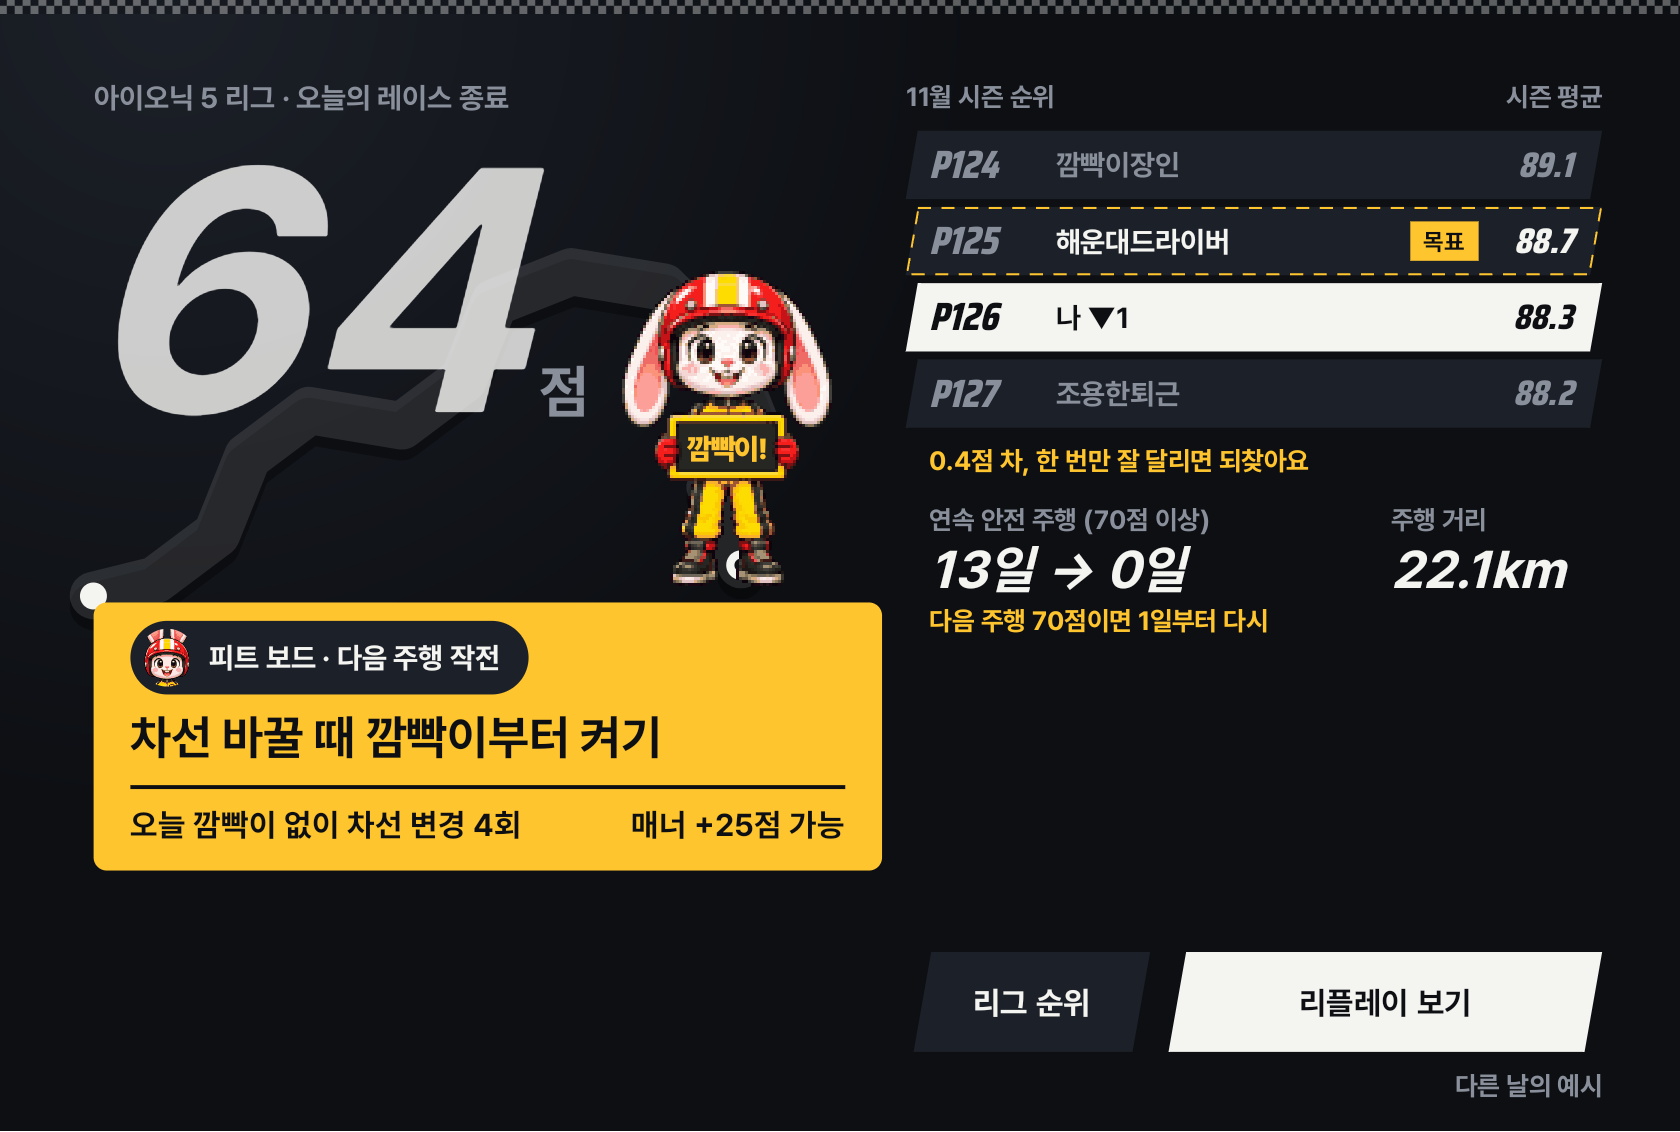
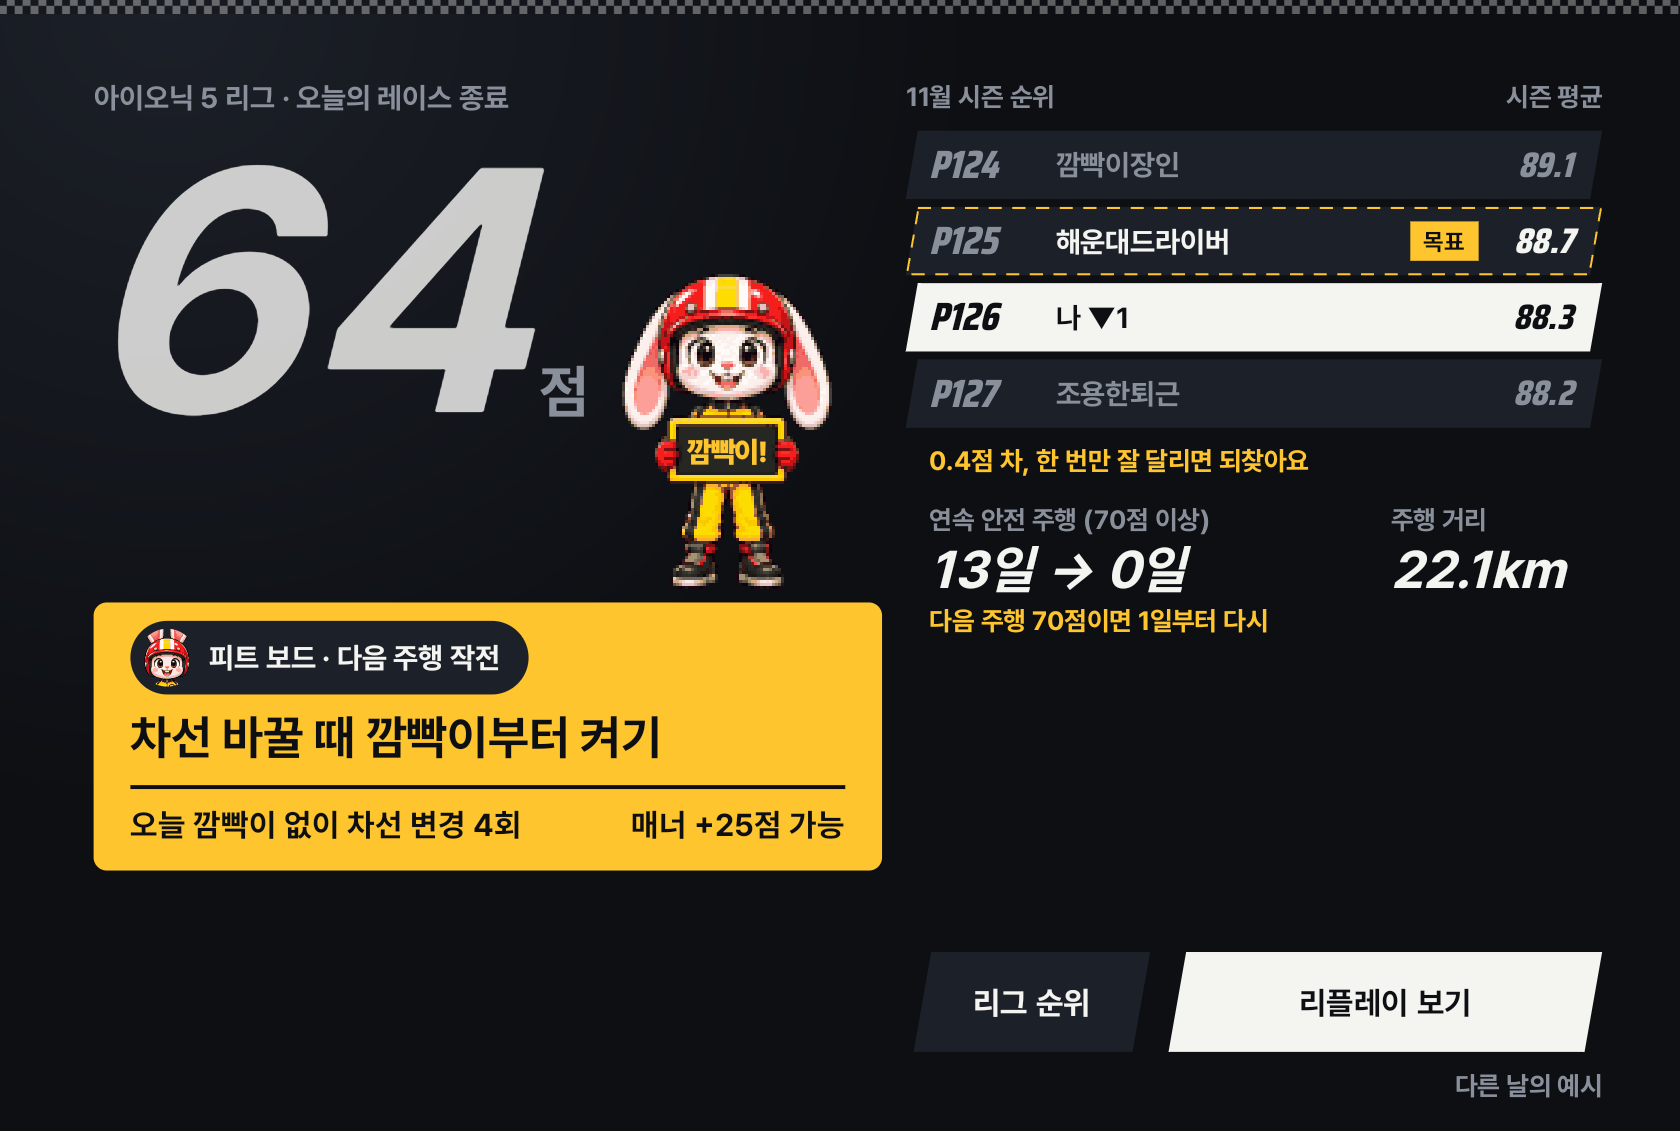
feat: remove blurred route background from low result card

diff --git a/app/src/main/java/io/github/ddayoung03/safetyleague/ui/view/CircuitRouteView.kt b/app/src/main/java/io/github/ddayoung03/safetyleague/ui/view/CircuitRouteView.kt
@@ -6,7 +6,6 @@ import androidx.core.graphics.withTranslation
 import android.content.Context
 import io.github.ddayoung03.safetyleague.R
 import android.graphics.Canvas
-import android.graphics.Color
 import android.graphics.DashPathEffect
 import android.graphics.Paint
 import android.graphics.Path
@@ -52,13 +51,7 @@ class CircuitRouteView @JvmOverloads constructor(
             rebuild()
         }
 
-    var isBackgroundMode: Boolean = false // 결과 카드 배경용 흐린 모드
-        set(value) {
-            field = value
-            trim()
-        }
-
-    /** 그려진 길이의 비율(0~1). 리플레이에만 쓰고, 배경 모드는 늘 끝까지 그린다. */
+    /** 그려진 길이의 비율(0~1).  */
     var progress: Float = 1f
         set(value) {
             field = value.coerceIn(0f, 1f)
@@ -83,7 +76,6 @@ class CircuitRouteView @JvmOverloads constructor(
     private val shadowColor = context.getColor(R.color.shadow)
     private val edgeColor = ColorUtils.setAlphaComponent(context.getColor(R.color.ink_text), 40)
     private val asphaltColor = context.getColor(R.color.ink_glow)
-    private val fadedColor = Color.argb(30, 242, 241, 236) // 흐린 서킷
     private val inkColor = context.getColor(R.color.ink)
     private val textColor = context.getColor(R.color.ink_text)
     private val yellowColor = context.getColor(R.color.yellow)
@@ -174,7 +166,7 @@ class CircuitRouteView @JvmOverloads constructor(
     /** 그릴 부분을 잘라 둔다. 그 끝이 차의 자리다. */
     private fun trim() {
         visibleCount = visibleEvents(eventPositions, progress)
-        val end = measure.length * (if (isBackgroundMode) 1f else progress)
+        val end = measure.length * progress
         drawn.reset()
         measure.getSegment(0f, end, drawn, true)
         measure.getPosTan(end, carPos, null)
@@ -187,43 +179,35 @@ class CircuitRouteView @JvmOverloads constructor(
         val density = resources.displayMetrics.density
 
         // Shadow below the road, never above event labels.
-        roadPaint.strokeWidth = if (isBackgroundMode) 36f * (scale / 6f).coerceAtLeast(1f) else 44f
+        roadPaint.strokeWidth = 44f
         roadPaint.color = shadowColor
         canvas.withTranslation(0f, 8 * density) {
             drawPath(drawn, roadPaint)
         }
         // 1. 도로 아스팔트 베이스
-        if (isBackgroundMode) {
-            roadPaint.strokeWidth = 36f * (scale / 6f).coerceAtLeast(1f)
-            roadPaint.color = fadedColor
-            canvas.drawPath(drawn, roadPaint)
-        } else {
-            roadPaint.strokeWidth = 44f
-            roadPaint.color = edgeColor
-            canvas.drawPath(drawn, roadPaint)
+        roadPaint.strokeWidth = 44f
+        roadPaint.color = edgeColor
+        canvas.drawPath(drawn, roadPaint)
 
-            roadPaint.strokeWidth = 36f
-            roadPaint.color = asphaltColor
-            canvas.drawPath(drawn, roadPaint)
+        roadPaint.strokeWidth = 36f
+        roadPaint.color = asphaltColor
+        canvas.drawPath(drawn, roadPaint)
 
-            // 중앙선
-            canvas.drawPath(drawn, centerLinePaint)
-        }
+        // 중앙선
+        canvas.drawPath(drawn, centerLinePaint)
 
         // 2. 출발점 (그린 서클) & 도착점 (체커기 마커). 도착점은 차가 닿으면 나온다.
         eventPaint.color = textColor // 출발: 트랙 화이트
         canvas.drawCircle(ends[0], ends[1], 9f, eventPaint)
         canvas.drawCircle(ends[0], ends[1], 9f, eventBorderPaint)
 
-        val arrived = isBackgroundMode || progress >= 1f
-        if (arrived) {
+        if (progress >= 1f) {
             eventPaint.color = textColor
             canvas.drawCircle(ends[2], ends[3], 10f, eventPaint)
             eventPaint.color = inkColor
             canvas.drawCircle(ends[2], ends[3], 5f, eventPaint)
             canvas.drawCircle(ends[2], ends[3], 10f, eventBorderPaint)
         }
-        if (isBackgroundMode) return
 
         // 3. 리플레이 이벤트 마커 렌더링
         for (i in 0 until visibleCount) {
@@ -236,7 +220,7 @@ class CircuitRouteView @JvmOverloads constructor(
         }
 
         // 4. 달리는 차
-        if (progress > 0f && !arrived) {
+        if (progress > 0f && progress < 1f) {
             eventPaint.color = yellowColor
             canvas.drawCircle(carPos[0], carPos[1], 10 * density, eventPaint)
             canvas.drawCircle(carPos[0], carPos[1], 10 * density, eventBorderPaint)

diff --git a/app/src/main/java/io/github/ddayoung03/safetyleague/ui/ResultLowScreen.kt b/app/src/main/java/io/github/ddayoung03/safetyleague/ui/ResultLowScreen.kt
@@ -3,7 +3,6 @@ package io.github.ddayoung03.safetyleague.ui
 import android.view.View
 import io.github.ddayoung03.safetyleague.R
 import io.github.ddayoung03.safetyleague.core.calculator.LeagueCalculator
-import io.github.ddayoung03.safetyleague.core.calculator.RouteNormalizer
 import io.github.ddayoung03.safetyleague.core.data.DemoData
 import io.github.ddayoung03.safetyleague.databinding.ViewResultLowBinding
 import io.github.ddayoung03.safetyleague.ui.motion.animationsEnabled
@@ -21,7 +20,6 @@ internal fun MainActivity.showResultLow() {
     listOf(b.btnLeague, b.btnReplay).forEach { it.pressFeedback() }
     b.btnLeague.setOnClickListener { show(Screen.LEAGUE, it) }
     b.btnReplay.setOnClickListener { show(Screen.REPLAY) }
-    b.routeBg.isBackgroundMode = true
     val t = realTrip
     val intro = resultIntro(t?.isEligible ?: true, false, resultJustFinished, animationsEnabled())
     val score = t?.trip?.score?.roundToInt() ?: DemoData.lowDayScore
@@ -30,7 +28,6 @@ internal fun MainActivity.showResultLow() {
     // L3·L6: 연속 기록은 사람 기준(모든 리그의 트립)이고 트립 날짜까지 센다. 전·후가 같은 범위다.
     val streakBefore = if (t != null) LeagueCalculator.streakAt(tripsBefore(t, repository.getAllTrips()), t.trip.date) else DemoData.lowDayStreakBefore
     b.tvStreakChange.text = "${streakBefore}일 → 0일"
-    t?.let { b.routeBg.routePoints = RouteNormalizer.normalize(it.route) }
     b.tvDemoNote.visibility = if (t == null) View.VISIBLE else View.GONE
     if (t != null) {
         b.tvTopTitle.text = "$myModel 리그 · ${t.trip.date}"

diff --git a/app/src/main/java/io/github/ddayoung03/safetyleague/ui/ReplayScreen.kt b/app/src/main/java/io/github/ddayoung03/safetyleague/ui/ReplayScreen.kt
@@ -32,7 +32,6 @@ internal fun MainActivity.showReplay() {
     b.tvReplayMeta.text = if (t != null) "${t.startTime} ~ ${t.endTime} · ${t.trip.km}km"
     else if (win) "${DemoData.winDayStart} ~ ${DemoData.winDayEnd} · ${DemoData.winDayKm}km"
     else "${DemoData.lowDayStart} ~ ${DemoData.lowDayEnd} · ${DemoData.lowDayKm}km"
-    b.routeReplayView.isBackgroundMode = false
     val routeNote = t?.let { routeNote(it.route) }
     val moved = routeNote == null
     b.routeReplayView.routePoints = if (t == null) DemoData.route else RouteNormalizer.normalize(t.route)
